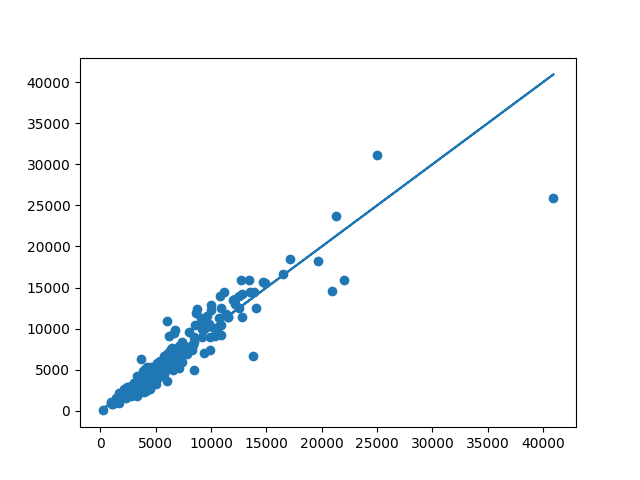
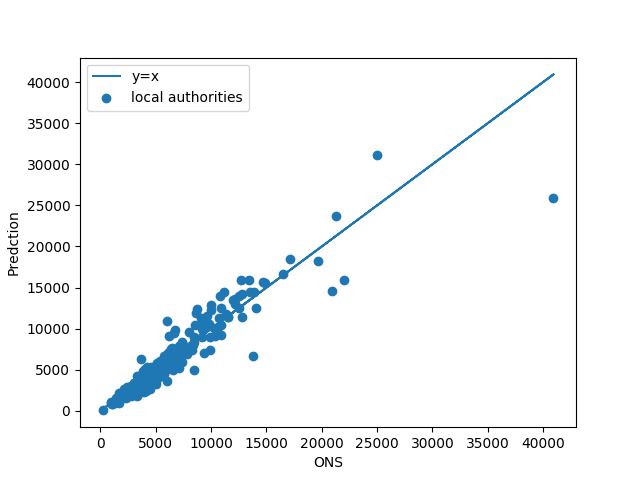
variance filtering

Changed region(s): [[0.125, 0.125, 0.375, 0.2188], [0.0, 0.4375, 0.0312, 0.5938], [0.5, 0.9375, 0.5312, 0.9688]]

diff --git a/Data Analysis/Enterprise Prediction/Gibrat Process/growth_model_2_rvs.py b/Data Analysis/Enterprise Prediction/Gibrat Process/growth_model_2_rvs.py
@@ -6,7 +6,8 @@ from multiprocessing import Pool
 
 
 def main():
-    calculate_means = False
+    calculate_means = True
+    calculate_covariances = True
 
     print('Getting local authority and SIC code expectations')
     la_target_means, la_target_variances = get_targets_by_la()
@@ -44,12 +45,6 @@ def main():
 
     print('done')
 
-    #for x in target_variances:
-    #    print(x)
-
-    #print((np.array(target_means) ** 2).mean())
-
-    #print(fsolve(expectation, np.zeros(len(local_authorities) + len(sic_codes)) * 0.00000001, args=(target_means, bins, local_authorities, sic_codes)))
     if calculate_means:
         means = root(expectation, np.ones(len(local_authorities) + len(sic_codes)) * 0.003, args=(np.array(target_means), bins, local_authorities, sic_codes), method='lm', jac=expectation_jacobian).x
     else:
@@ -61,23 +56,28 @@ def main():
         for i, sic in enumerate(sic_codes):
             means[len(local_authorities) + i] = float(means_from_file[str(sic)])
         print('done')
-    print('calculating covariance constants...')
-    covariances = calculate_covariances(bins, local_authorities, sic_codes, means)
-    with open('covariances.csv', 'w') as csvfile:
-        writer = csv.writer(csvfile)
-        writer.writerow(covariances)
-    print(covariances)
-    print('done')
-    variances = root(variance, np.ones(len(local_authorities) + len(sic_codes)) * 0.001, args=(np.array(target_variances), means, covariances, bins, local_authorities, sic_codes), method='lm', jac=variance_jacobian).x
 
-    print(mean, variances)
+    if calculate_covariances:
+        print('Calculating covariance constants...')
+        covariances = calculate_covariances(bins, local_authorities, sic_codes, means)
+        print('done')
+    else:
+        print('Loading covariance constants..')
+        cvs_from_file = load_means()
+        covariances = np.zeros(len(local_authorities) + len(sic_codes))
+        for i, la in enumerate(local_authorities):
+            covariances[i] = float(cvs_from_file[la])
+        for i, sic in enumerate(sic_codes):
+            covariances[len(local_authorities) + i] = float(cvs_from_file[str(sic)])
+        print('done')
 
-    with open('parameters.csv', 'w') as csvfile:
-        writer = csv.writer(csvfile)
-        writer.writerow(local_authorities + sic_codes)
-        writer.writerow(means)
-        writer.writerow(covariances)
-        writer.writerow(variances)
+    #print([x for x in variance(np.zeros(len(local_authorities) + len(sic_codes)), np.array(target_variances), means, covariances, bins, local_authorities, sic_codes) if x > 0])
+
+    variances = root(variance, np.ones(len(local_authorities) + len(sic_codes)) * 0.045, args=(np.array(target_variances), means, covariances, bins, local_authorities, sic_codes), method='lm', jac=variance_jacobian).x
+
+    print(means, variances)
+
+
 
 
 
@@ -173,6 +173,15 @@ def load_means():
         means = next(reader)
 
     return means
+
+def load_covariances():
+    means = {}
+    with open('parameters.csv', 'r') as csvfile:
+        reader = csv.DictReader(csvfile)
+        means = next(reader)
+        covariances = next(reader)
+
+    return covariances
 
 def la_covariance(i, la, max_age, local_authorities, sic_codes, age_bins, means):
     s = 0
@@ -280,6 +289,8 @@ def variance_jacobian(params, target, means, covariances, age_bins, local_author
 
                 jacobian[la_index][total_las + sic_index] += (n / totals_by_la[la]) * 2 * sic_param * d_var
                 jacobian[total_las + sic_index][la_index] += (n / totals_by_sic[sic]) * 2 * la_param * d_var
+                #jacobian[total_las + sic_index][la_index] += (n / totals_by_la[la]) * 2 * sic_param * d_var
+                #jacobian[la_index][total_las + sic_index] += (n / totals_by_sic[sic]) * 2 * la_param * d_var
 
 
     return jacobian
@@ -325,9 +336,13 @@ def get_targets_by_sic():
                 continue
 
             mean, variance = get_mean_varaince_of_lognorm(mu, sigma)
-            if mean < 500 and variance < 500000:
-                means[sic] = mean
-                variances[sic] = variance
+
+            print(sic, mean, variance, mu, sigma)
+
+            means[sic] = mean
+            variances[sic] = variance
+            #else:
+            #    print(sic)
 
 
     return means, variances
@@ -345,16 +360,18 @@ def get_targets_by_la():
 
             mean, variance = get_mean_varaince_of_lognorm(mu, sigma)
 
-            if mean < 500 and variance < 500000:
+            means[la] = mean
+            variances[la] = variance
 
-                means[la] = mean
-                variances[la] = variance
+            print(la, mean, variance, mu, sigma)
+
+
 
     return means, variances
 
 
 def get_mean_varaince_of_lognorm(mu, sigma):
-    return lognorm.mean(sigma, scale=np.exp(mu)), lognorm.var(sigma, scale=np.exp(mu))
+    return lognorm.mean(s = sigma, scale=np.exp(mu)), lognorm.var(s = sigma, scale=np.exp(mu))
 
 if __name__ == '__main__':
     main()

diff --git a/Data Analysis/Enterprise Prediction/Gibrat Process/parameter_test.py b/Data Analysis/Enterprise Prediction/Gibrat Process/parameter_test.py
@@ -1,0 +1,15 @@
+from scipy.stats import lognorm
+import numpy as np
+import csv
+
+def main():
+    #mu, sigma = (-0.09393732098510958, 2.005628423533079)
+    with open('../Data/2017_2_sic_enterprise_lognormal_params.csv', 'r') as csvfile:
+        reader = csv.reader(csvfile)
+        for line in reader:
+            mu = float(line[1])
+            sigma = float(line[2])
+            print(line[0], lognorm.mean(sigma, scale=np.exp(mu)), lognorm.var(sigma, scale=np.exp(mu)))
+
+if __name__ == '__main__':
+    main()

diff --git a/Data Analysis/Enterprise Prediction/predict_la_enterprises.py b/Data Analysis/Enterprise Prediction/predict_la_enterprises.py
@@ -47,8 +47,12 @@ def main():
         x.append(la_totals[la])
         y.append(n)
 
-    plt.scatter(x, y)
-    plt.plot(x, x)
+    plt.scatter(x, y, label='local authorities')
+    plt.plot(x, x, label='y=x')
+    plt.xlabel('ONS')
+    plt.ylabel('Predction')
+    #plt.title('Using SIC ratios to predict number of enterprises per local authority')
+    plt.legend()
     plt.savefig('la_enterprise_predictions_with_ch.png')
     plt.show()
 
